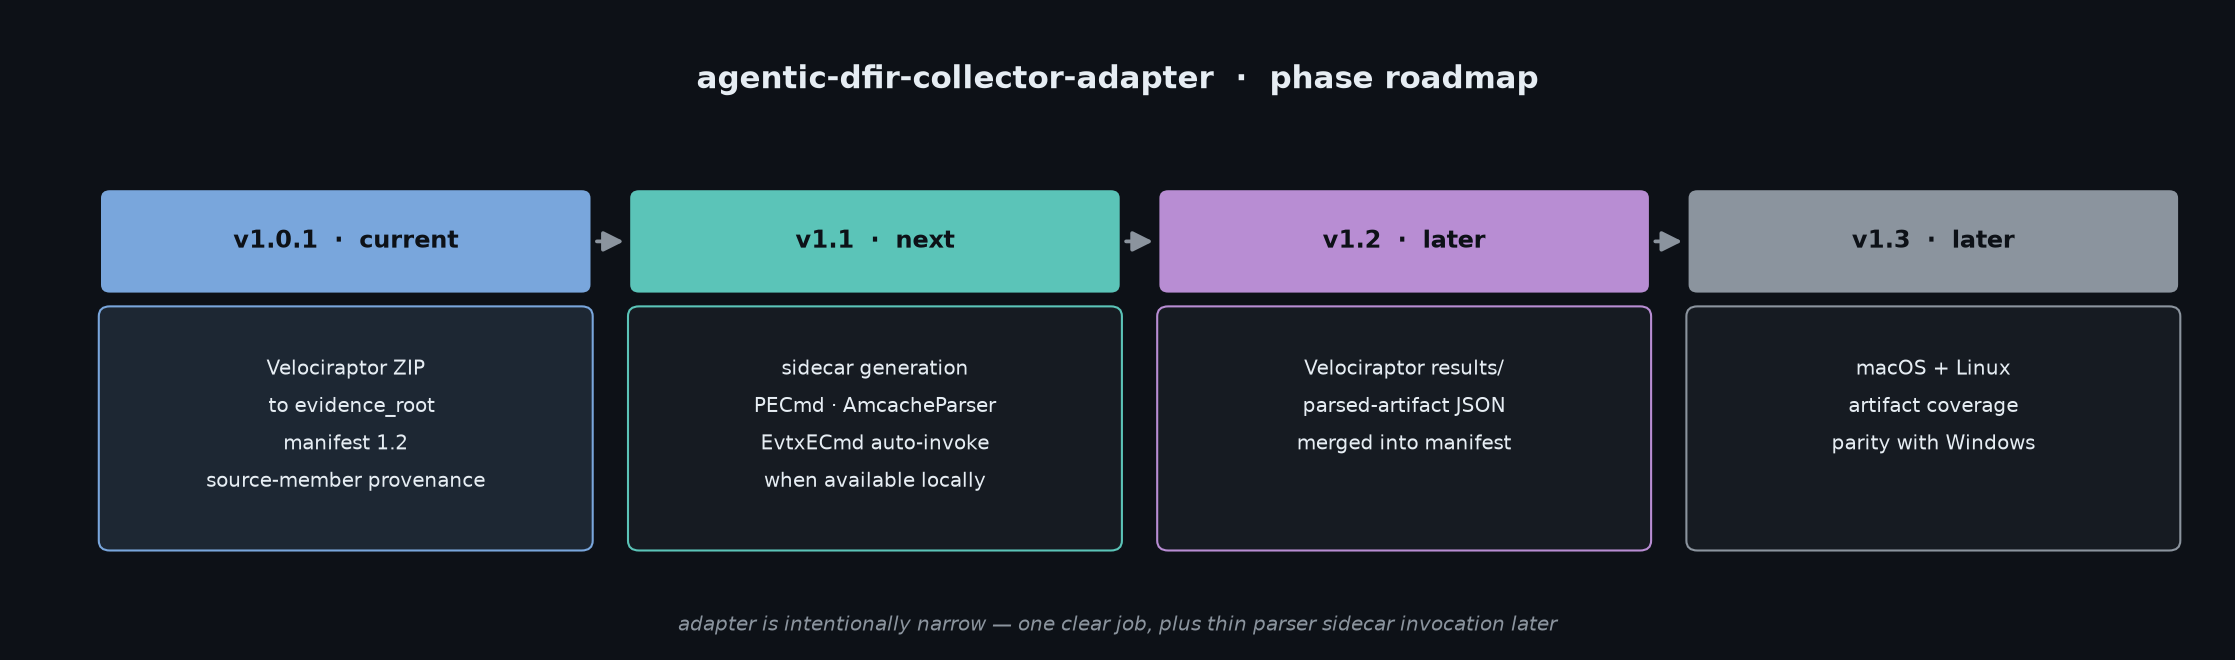
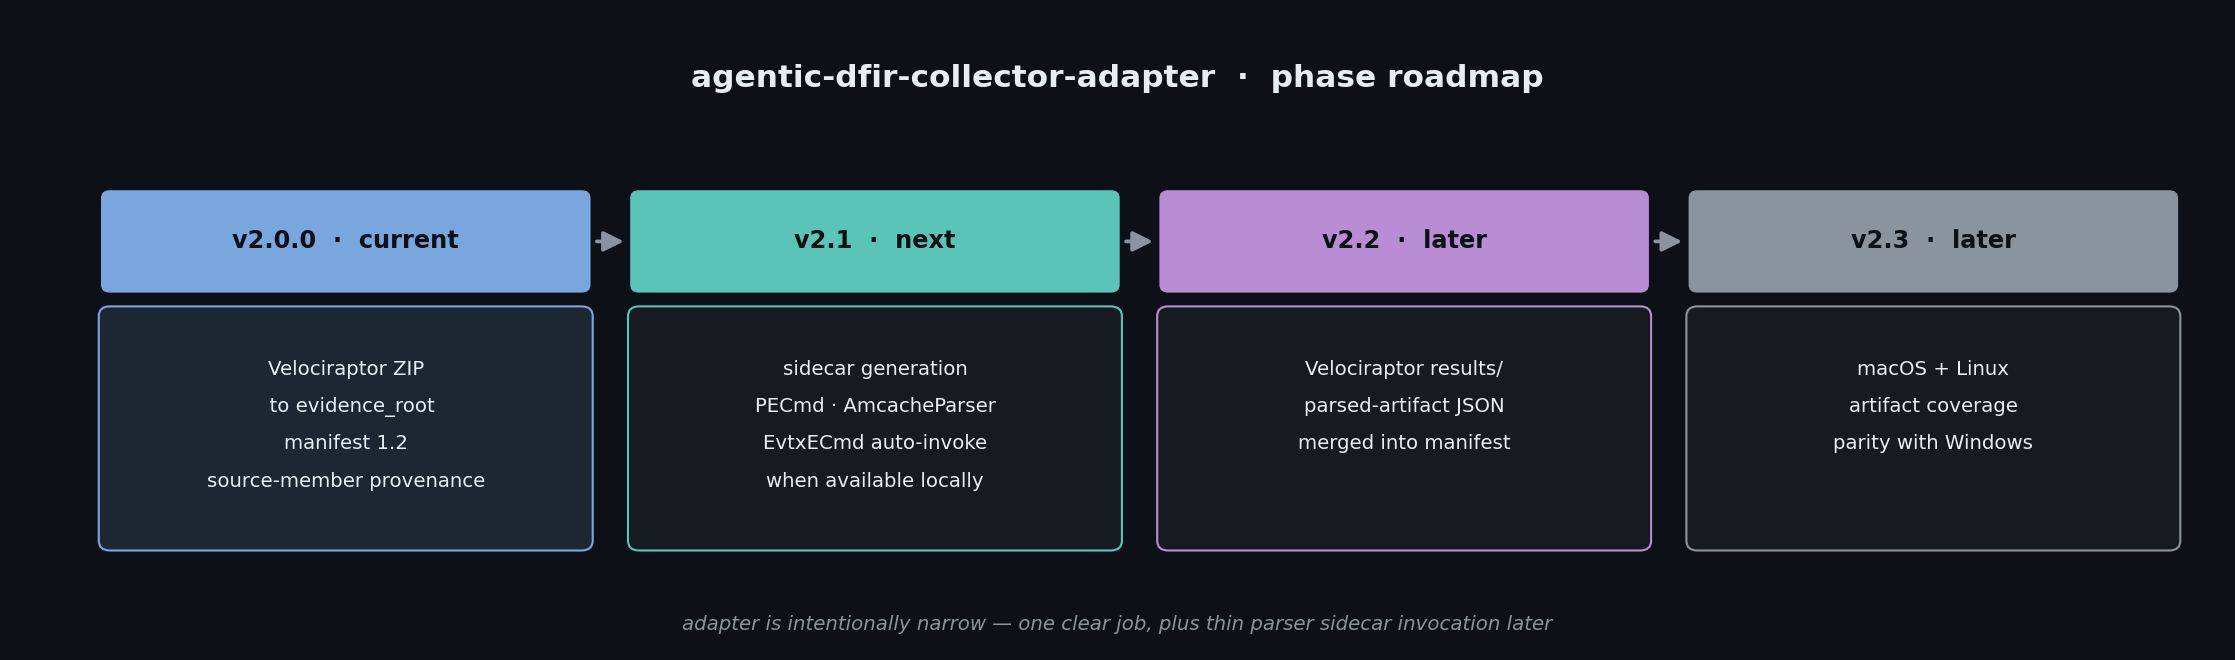
Renumber the roadmap onto the v2.x line
The version jumped to 2.0.0 with the rename, which left the roadmap table,
the generated roadmap diagram and the contributing note pointing at v1.1–v1.3
as future phases. They are now v2.1–v2.3 with the same scope; the diagram is
regenerated from scripts/_gen_diagrams.py.

diff --git a/scripts/_gen_diagrams.py b/scripts/_gen_diagrams.py
@@ -139,19 +139,19 @@ def diagram_roadmap():
             ha="center", va="top", fontsize=15, fontweight="bold", color=TEXT_PRI)
 
     phases = [
-        ("v1.0.1", "current",
+        ("v2.0.0", "current",
          ["Velociraptor ZIP", "  to evidence_root",
           "manifest 1.2", "source-member provenance"],
          ADAPTER, True),
-        ("v1.1", "next",
+        ("v2.1", "next",
          ["sidecar generation", "PECmd · AmcacheParser",
           "EvtxECmd auto-invoke", "when available locally"],
          "#5bc4b8", False),
-        ("v1.2", "later",
+        ("v2.2", "later",
          ["Velociraptor results/", "parsed-artifact JSON",
           "merged into manifest"],
          MANIFEST, False),
-        ("v1.3", "later",
+        ("v2.3", "later",
          ["macOS + Linux", "artifact coverage",
           "parity with Windows"],
          TEXT_SEC, False),

diff --git a/README.md b/README.md
@@ -459,9 +459,9 @@ Because forking 100k+ lines of Go to add one Python adapter would be insane.
 |-----------|----------|--------------------------------------------------------------------------------------------------|
 | **v2.0.0** | current  | Renamed to agentic-dfir-collector-adapter alongside Agentic-DFIR: package `dfir_collector_adapter`, CLI `dfir-collector-adapter`, env `DFIR_VELOCIRAPTOR_BIN`. No behaviour change. |
 | **v1.0.1** | shipped  | Velociraptor ZIP → evidence_root with SHA-256 manifest 1.2; hardened integrity (input-ZIP SHA-256 anchor, persisted skip log, collision-safe source-member provenance, overwrite-safe), ZIP-bomb + symlink defenses, single-pass hashing, mtime preservation, install-time binary checksum verification. Full test suite passing locally on Python 3.11. |
-| **v1.1**  | next     | Sidecar generation — auto-invoke `PECmd`, `AmcacheParser`, `EvtxECmd` when present locally.       |
-| **v1.2**  | later    | Ingest Velociraptor `results/*.json` (parsed-artifact JSON) and merge into the manifest.          |
-| **v1.3**  | later    | macOS + Linux artifact coverage parity with Windows.                                              |
+| **v2.1**  | next     | Sidecar generation — auto-invoke `PECmd`, `AmcacheParser`, `EvtxECmd` when present locally.       |
+| **v2.2**  | later    | Ingest Velociraptor `results/*.json` (parsed-artifact JSON) and merge into the manifest.          |
+| **v2.3**  | later    | macOS + Linux artifact coverage parity with Windows.                                              |
 
 The adapter is intentionally narrow. It will not grow into a "platform."
 

diff --git a/CHANGELOG.md b/CHANGELOG.md
@@ -13,6 +13,8 @@ release line.
   `dart_collector_adapter` / `dart-collector-adapter` / `DART_VELOCIRAPTOR_BIN`).
   Update imports, shell aliases, and environment files accordingly.
 - Version bumped to `2.0.0` because the import path and CLI name changed.
+- Roadmap phases renumbered onto the v2.x line (`v2.1`–`v2.3`); their scope is
+  unchanged.
   No functional change: layout classification, `manifest.json` schema `1.2`,
   exit codes, and the `--source {zip,image}` behaviour are identical to `1.0.1`.
 

diff --git a/CONTRIBUTING.md b/CONTRIBUTING.md
@@ -12,7 +12,7 @@ Things that **belong** here:
 - New artifact patterns in `src/dfir_collector_adapter/layout.py`
 - Improvements to `manifest.json` integrity (extra fields, stronger hashing)
 - Bug fixes in path-safety, ZIP traversal handling, large-file streaming
-- Sidecar parser invocation (e.g., calling `EvtxECmd` when available) — planned for v1.1
+- Sidecar parser invocation (e.g., calling `EvtxECmd` when available) — planned for v2.1
 - New tests
 
 Things that **do not belong** here:
